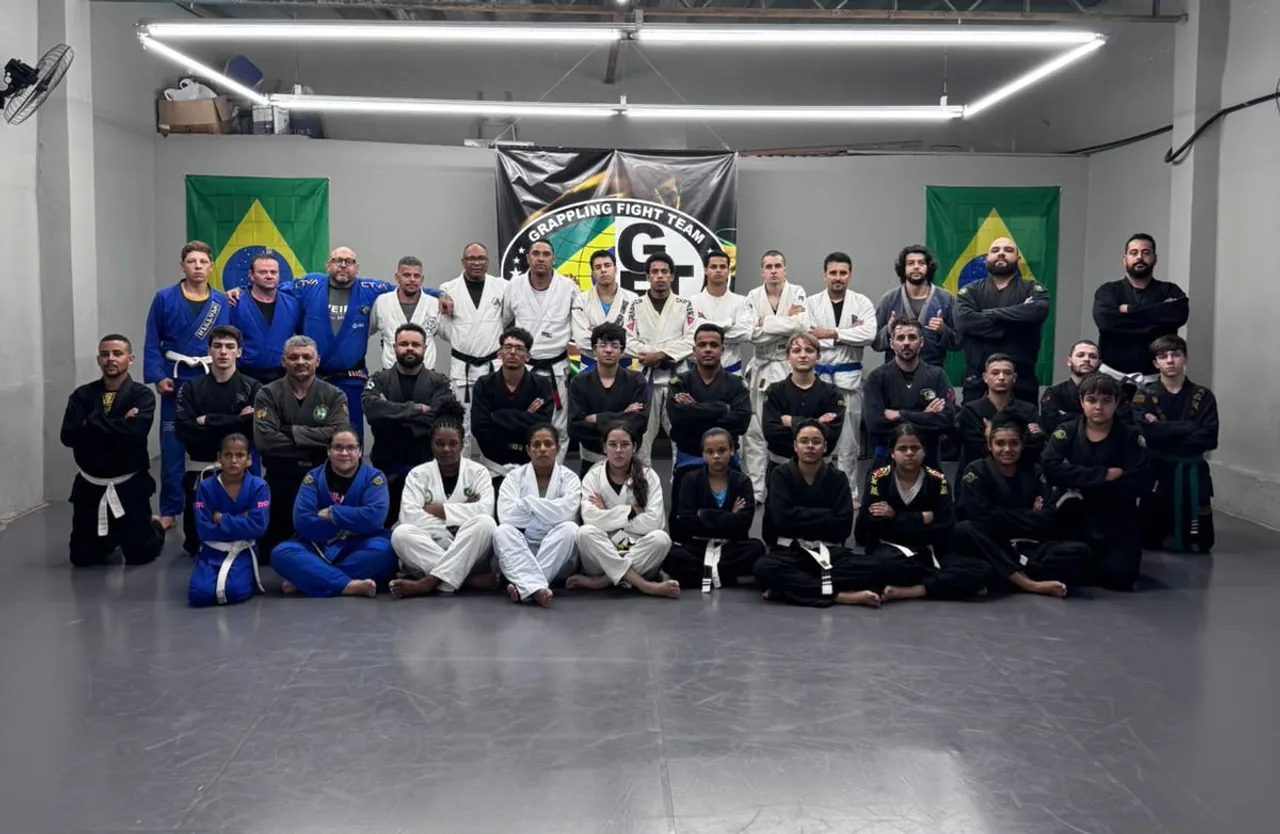
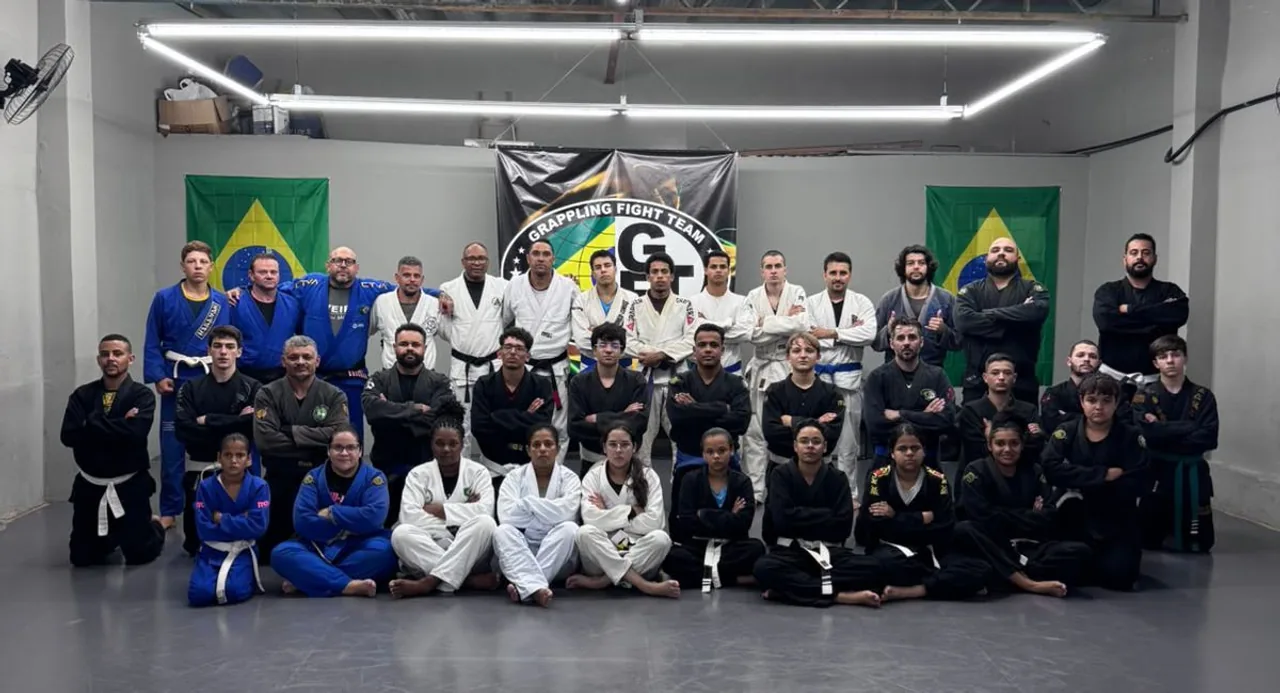
feat: optimize hero images and enhance responsive styles for improved layout

diff --git a/src/styles.css b/src/styles.css
@@ -432,15 +432,39 @@ body {
   overflow: hidden;
 }
 .hero-photo img {
+  display: block;
   width: 100%;
-  height: 300px;
-  object-fit: cover;
-  object-position: center 52%;
+  height: auto;
+  object-fit: contain;
 }
 .hero-photo figcaption {
   color: var(--color-muted);
   padding-top: 10px;
   font-size: 12.1px;
+}
+@media (min-width: 601px) {
+  .hero {
+    align-items: start;
+  }
+  .hero-editorial {
+    display: flex;
+    flex-direction: column;
+    height: calc(100svh - 142px);
+    height: calc(100dvh - 142px);
+    min-height: 0;
+  }
+  .hero-photo {
+    flex: 1;
+    min-height: 0;
+    display: grid;
+    grid-template-rows: auto minmax(0, 1fr);
+  }
+  .hero-photo img {
+    width: 100%;
+    height: 100%;
+    min-height: 0;
+    object-position: left top;
+  }
 }
 .belt-bay {
   --belt-color: #eeeee4;
@@ -1197,9 +1221,6 @@ body {
   .hero {
     grid-template-columns: minmax(0, 1fr) 370px;
   }
-  .hero-photo img {
-    height: 325px;
-  }
   .belt-bay {
     min-height: 650px;
   }
@@ -1235,9 +1256,6 @@ body {
   }
   .hero-actions .text-link {
     padding: 0;
-  }
-  .hero-photo img {
-    height: 290px;
   }
   .belt-bay {
     min-height: 620px;
@@ -1310,10 +1328,6 @@ body {
   }
   .hero-actions .text-link {
     font-size: 12.1px;
-  }
-  .hero-photo img {
-    height: 270px;
-    object-position: 56% center;
   }
   .belt-bay {
     min-height: 565px;
@@ -1516,10 +1530,6 @@ body {
   }
   .hero-actions .text-link {
     font-size: 13.2px;
-  }
-  .hero-photo img {
-    height: 225px;
-    object-position: 50% center;
   }
   .hero-photo figcaption {
     font-size: 12.1px;
@@ -1923,6 +1933,45 @@ body {
   }
   .site-footer .ph {
     font-size: 16.5px;
+  }
+}
+@media (min-width: 901px) and (max-height: 800px) {
+  body {
+    padding-top: 64px;
+  }
+  .site-header {
+    height: 64px;
+  }
+  .site-header.is-compact {
+    height: 56px;
+  }
+  .hero {
+    padding-top: 24px;
+  }
+  .hero-editorial {
+    height: calc(100svh - 112px);
+    height: calc(100dvh - 112px);
+  }
+  .hero h1 {
+    font-size: clamp(60px, 5vw, 76px);
+    line-height: 0.96;
+  }
+  .hero-actions {
+    margin-block: 16px 18px;
+  }
+  .hero-actions .button {
+    min-height: 48px;
+    padding-block: 12px;
+    font-size: 14.3px;
+  }
+  .hero-photo figcaption {
+    padding-top: 6px;
+  }
+  .hero-photo img {
+    width: 90%;
+    justify-self: start;
+    object-fit: cover;
+    object-position: center 60%;
   }
 }
 @media (prefers-reduced-motion: reduce) {

diff --git a/index.html b/index.html
@@ -79,7 +79,7 @@
               sizes="(max-width: 600px) calc(100vw - 40px), (max-width: 900px) 55vw, 68vw"
               alt="Alunos de quimono treinando juntos no tatame da GFTeam Avaré"
               width="1280"
-              height="834"
+              height="693"
               fetchpriority="high"
             />
           </figure>
